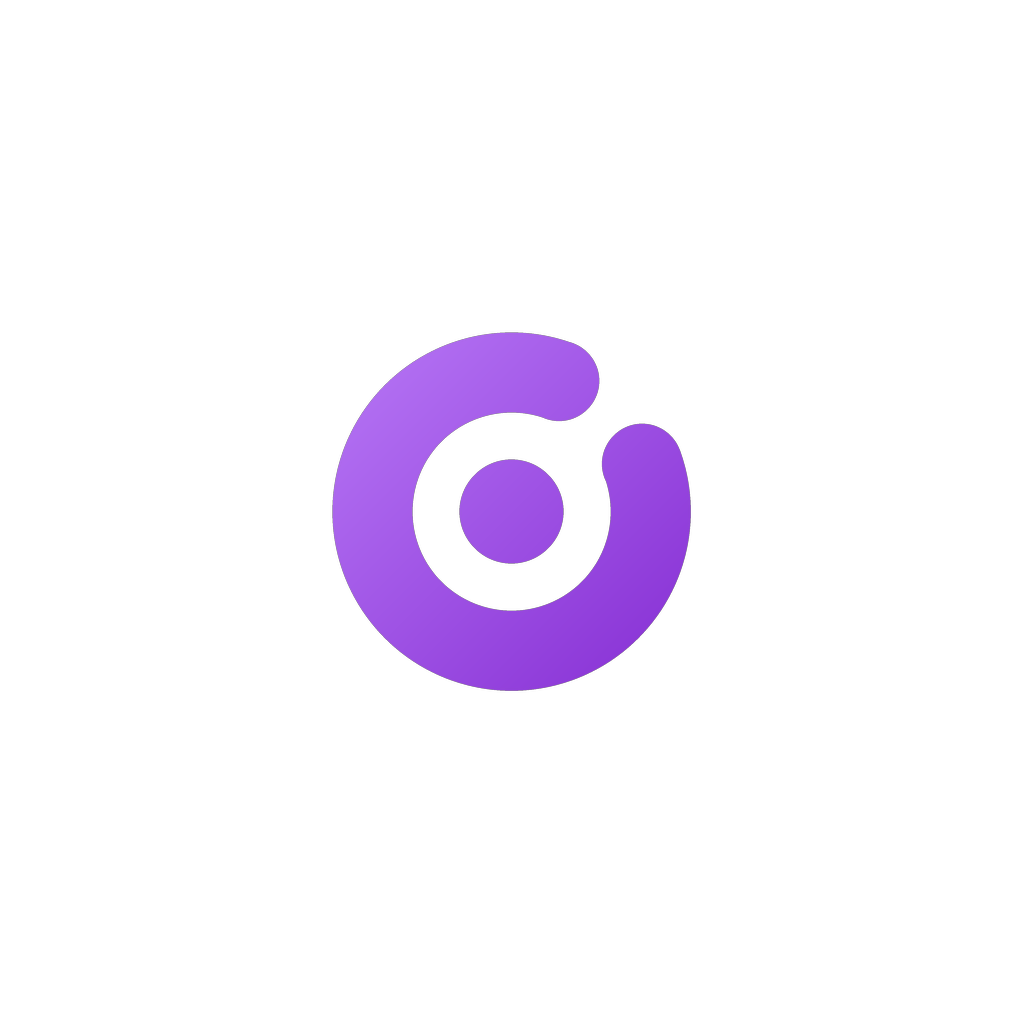
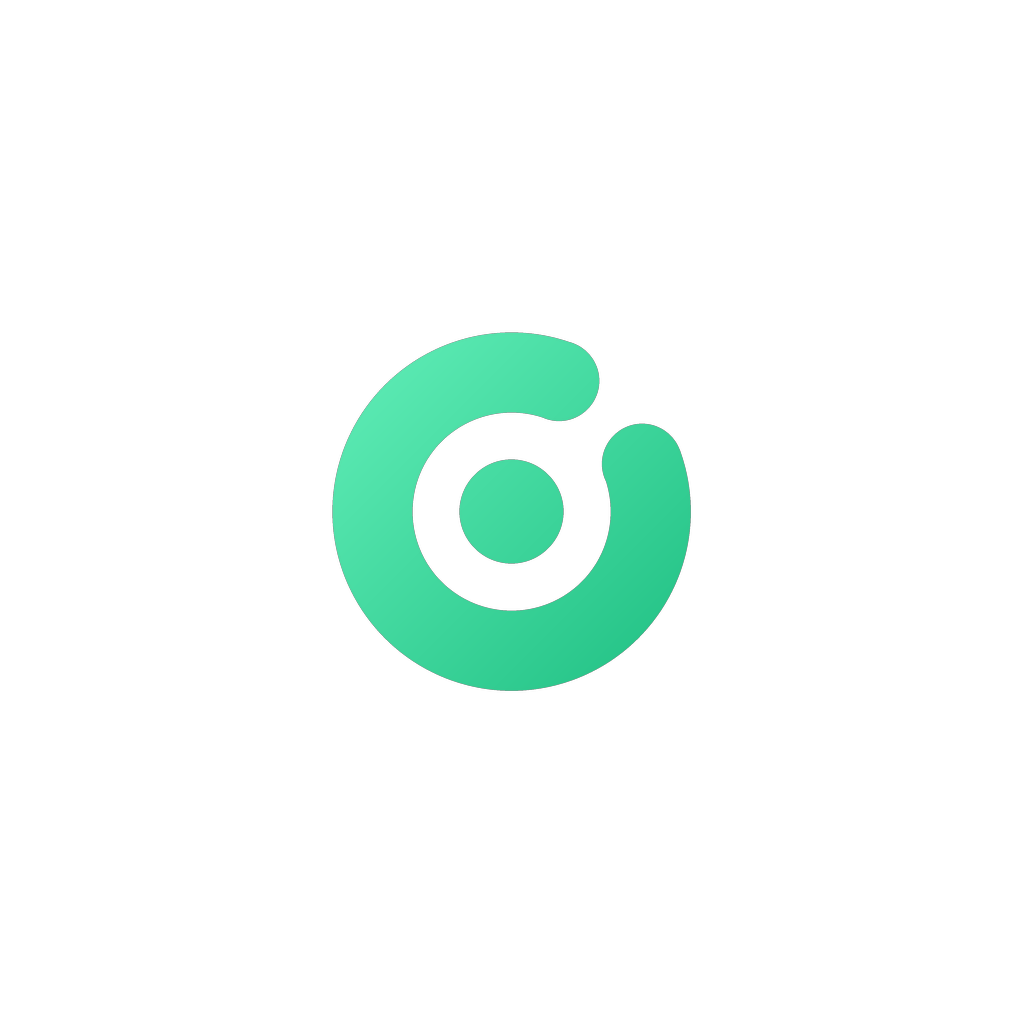
Taimo: nueva paleta verde menta en lugar de morado
Tema, colores de categorías, icono, splash, favicon y color de las
notificaciones. El texto sobre el verde pasa a ser oscuro para que se
lea bien. La bienvenida muestra el logo en vez de un emoji.

Claude-Session: https://claude.ai/code/session_01KbETSUSeEEFnHWcPeobSYN

Changed region(s): [[0.3125, 0.3125, 0.6875, 0.6875], [0.4375, 0.4375, 0.5625, 0.5625]]

diff --git a/taimo/src/domain/categories.ts b/taimo/src/domain/categories.ts
@@ -10,14 +10,14 @@ export interface CategoryInfo {
 export const CATEGORIES: CategoryInfo[] = [
   { id: 'super', label: 'Supermercado', emoji: '🛒', color: '#22C55E' },
   { id: 'comer', label: 'Comer fuera', emoji: '🍔', color: '#F97316' },
-  { id: 'ocio', label: 'Ocio', emoji: '🎉', color: '#A855F7' },
+  { id: 'ocio', label: 'Ocio', emoji: '🎉', color: '#F43F5E' },
   { id: 'deporte', label: 'Deporte', emoji: '⚽', color: '#06B6D4' },
   { id: 'estudios', label: 'Estudios', emoji: '📚', color: '#3B82F6' },
-  { id: 'transporte', label: 'Transporte', emoji: '🚇', color: '#EAB308' },
+  { id: 'transporte', label: 'Transporte', emoji: '🚇', color: '#FDE047' },
   { id: 'casa', label: 'Casa', emoji: '🏠', color: '#14B8A6' },
-  { id: 'compras', label: 'Compras', emoji: '🛍', color: '#EC4899' },
+  { id: 'compras', label: 'Compras', emoji: '🛍', color: '#F59E0B' },
   { id: 'salud', label: 'Salud', emoji: '💊', color: '#EF4444' },
-  { id: 'suscripciones', label: 'Suscripciones', emoji: '🔁', color: '#8B5CF6' },
+  { id: 'suscripciones', label: 'Suscripciones', emoji: '🔁', color: '#64748B' },
   { id: 'otros', label: 'Otros', emoji: '✨', color: '#94A3B8' },
 ];
 

diff --git a/taimo/src/app/onboarding.tsx b/taimo/src/app/onboarding.tsx
@@ -1,6 +1,6 @@
 import { router } from 'expo-router';
 import { useState } from 'react';
-import { Text, View } from 'react-native';
+import { Image, Text, View } from 'react-native';
 
 import { CATEGORIES } from '@/domain/categories';
 import { formatMoneyShort, parseAmount } from '@/domain/money';
@@ -39,7 +39,11 @@ export default function Onboarding() {
     return (
       <Screen scroll={false}>
         <View style={{ minHeight: 640, justifyContent: 'center', gap: space.xl }}>
-          <Text style={{ fontSize: 64, textAlign: 'center' }}>👛</Text>
+          <Image
+            source={require('../../assets/splash-icon.png')}
+            style={{ width: 96, height: 96, alignSelf: 'center' }}
+            accessibilityLabel="Taimo"
+          />
           <Title>Bienvenido a Taimo</Title>
           <Text style={{ color: colors.textMuted, fontSize: 17, lineHeight: 24 }}>
             Pagas con el móvil y Taimo lo apunta solo. Te dice cuánto te queda en cada cosa y reparte los gastos con tu

diff --git a/taimo/src/ui/theme.ts b/taimo/src/ui/theme.ts
@@ -1,16 +1,18 @@
-// Colores sacados del diseño de Figma de Taimo: fondo casi negro con morado.
+// Paleta de Taimo: fondo casi negro y verde menta (el color del dinero que te queda).
 export const colors = {
-  bg: '#0B0614',
-  surface: '#161022',
-  surfaceAlt: '#1F1730',
-  border: '#2A2140',
-  primary: '#A855F7',
-  primaryDark: '#7E22CE',
-  primarySoft: '#2E1A47',
-  text: '#F5F3FF',
-  textMuted: '#A59DB8',
-  textFaint: '#6E6585',
-  success: '#22C55E',
+  bg: '#0A0F0D',
+  surface: '#121A17',
+  surfaceAlt: '#1A2420',
+  border: '#24312C',
+  primary: '#2EE59D',
+  primaryDark: '#14B87A',
+  primarySoft: '#0F2A20',
+  /** Texto encima del color principal (el verde es claro: el texto va oscuro). */
+  onPrimary: '#04140D',
+  text: '#F2FBF7',
+  textMuted: '#9BB0A8',
+  textFaint: '#62756E',
+  success: '#2EE59D',
   warning: '#F59E0B',
   danger: '#EF4444',
   white: '#FFFFFF',

diff --git a/taimo/src/ui/components.tsx b/taimo/src/ui/components.tsx
@@ -66,6 +66,7 @@ export function Button({
       <Text
         style={[
           styles.buttonText,
+          variant === 'primary' && { color: colors.onPrimary },
           variant === 'ghost' && { color: colors.primary },
           variant === 'danger' && { color: colors.danger },
         ]}
@@ -121,7 +122,7 @@ export function Chip({ label, selected, onPress }: { label: string; selected?: b
       onPress={onPress}
       style={[styles.chip, selected && { backgroundColor: colors.primary, borderColor: colors.primary }]}
     >
-      <Text style={{ color: selected ? colors.white : colors.text, fontSize: 14 }}>{label}</Text>
+      <Text style={{ color: selected ? colors.onPrimary : colors.text, fontSize: 14, fontWeight: selected ? '600' : '400' }}>{label}</Text>
     </Pressable>
   );
 }

diff --git a/taimo/src/app/automation.tsx b/taimo/src/app/automation.tsx
@@ -45,7 +45,7 @@ function Steps({ steps }: { steps: string[] }) {
               justifyContent: 'center',
             }}
           >
-            <Text style={{ color: colors.white, fontWeight: '700' }}>{i + 1}</Text>
+            <Text style={{ color: colors.onPrimary, fontWeight: '700' }}>{i + 1}</Text>
           </View>
           <Text style={{ color: colors.text, flex: 1, fontSize: 15, lineHeight: 21 }}>{s}</Text>
         </Row>

diff --git a/taimo/src/app/(tabs)/index.tsx b/taimo/src/app/(tabs)/index.tsx
@@ -124,7 +124,7 @@ export default function Home() {
             elevation: 6,
           })}
         >
-          <Text style={{ color: colors.white, fontSize: 30, marginTop: -2 }}>+</Text>
+          <Text style={{ color: colors.onPrimary, fontSize: 30, marginTop: -2, fontWeight: '600' }}>+</Text>
         </Pressable>
       </View>
     </View>

diff --git a/taimo/README.md b/taimo/README.md
@@ -81,7 +81,7 @@ src/
   sync/             cliente de Supabase y sincronización automática
   notifications/    resumen semanal
   store/            estado y guardado en el móvil
-  ui/               tema (colores del Figma) y componentes
+  ui/               tema (negro y verde menta) y componentes
 modules/taimo-capture/   módulo nativo (Swift + Kotlin): cola de pagos y lector de notificaciones
 native/ios/              App Intent «Registrar pago en Taimo» (lo añade plugins/withTaimoAppIntent.js)
 supabase/                migración SQL y pruebas
